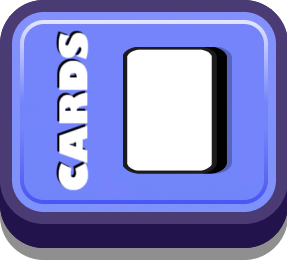
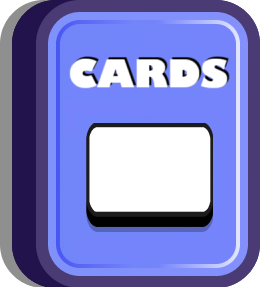
buttons pasado a game y nueva foto

diff --git a/main/core/graphics/game_render.h b/main/core/graphics/game_render.h
@@ -1,7 +1,7 @@
 #ifndef GAME_RENDER_H
 #define GAME_RENDER_H
 
-void game_render(SDL_Renderer *renderer, ASSETS loadedAssets, GAMEINFO gameInfo, CONFIG config);
+void game_render(SDL_Renderer *renderer, ASSETS loadedAssets, BUTTON *buttons, GAMEINFO gameInfo, CONFIG config);
 void renderMap(SDL_Renderer *renderer, ASSETS loadedAssets, GAMEINFO gameInfo);
 void renderUI(SDL_Renderer *renderer, ASSETS loadedAssets, GAMEINFO gameInfo);
 void renderSideUI(SDL_Renderer *renderer, ASSETS loadedAssets, int numPlayers, PLAYER players[], int turn);

diff --git a/main/core/graphics/render.c b/main/core/graphics/render.c
@@ -27,7 +27,7 @@ void render(SDL_Renderer* renderer, ASSETS loadedAssets, GAMESTATE gameState, GA
             lobby_render(renderer, buttons, loadedAssets, gameInfo);
             break;
         case GAME:
-            game_render(renderer, loadedAssets, gameInfo, config);
+            game_render(renderer, loadedAssets, buttons, gameInfo, config);
             break;
         case SETTINGS:
             settings_render(renderer, buttons, loadedAssets, config);

diff --git a/main/core/graphics/game_render.c b/main/core/graphics/game_render.c
@@ -3,7 +3,7 @@
 #include <render.h>
 #include <game_render.h>
 
-void game_render(SDL_Renderer *renderer, ASSETS loadedAssets, GAMEINFO gameInfo, CONFIG config)
+void game_render(SDL_Renderer *renderer, ASSETS loadedAssets, BUTTON *buttons, GAMEINFO gameInfo, CONFIG config)
 {
     renderMap(renderer, loadedAssets, gameInfo);
     renderUI(renderer, loadedAssets, gameInfo);
